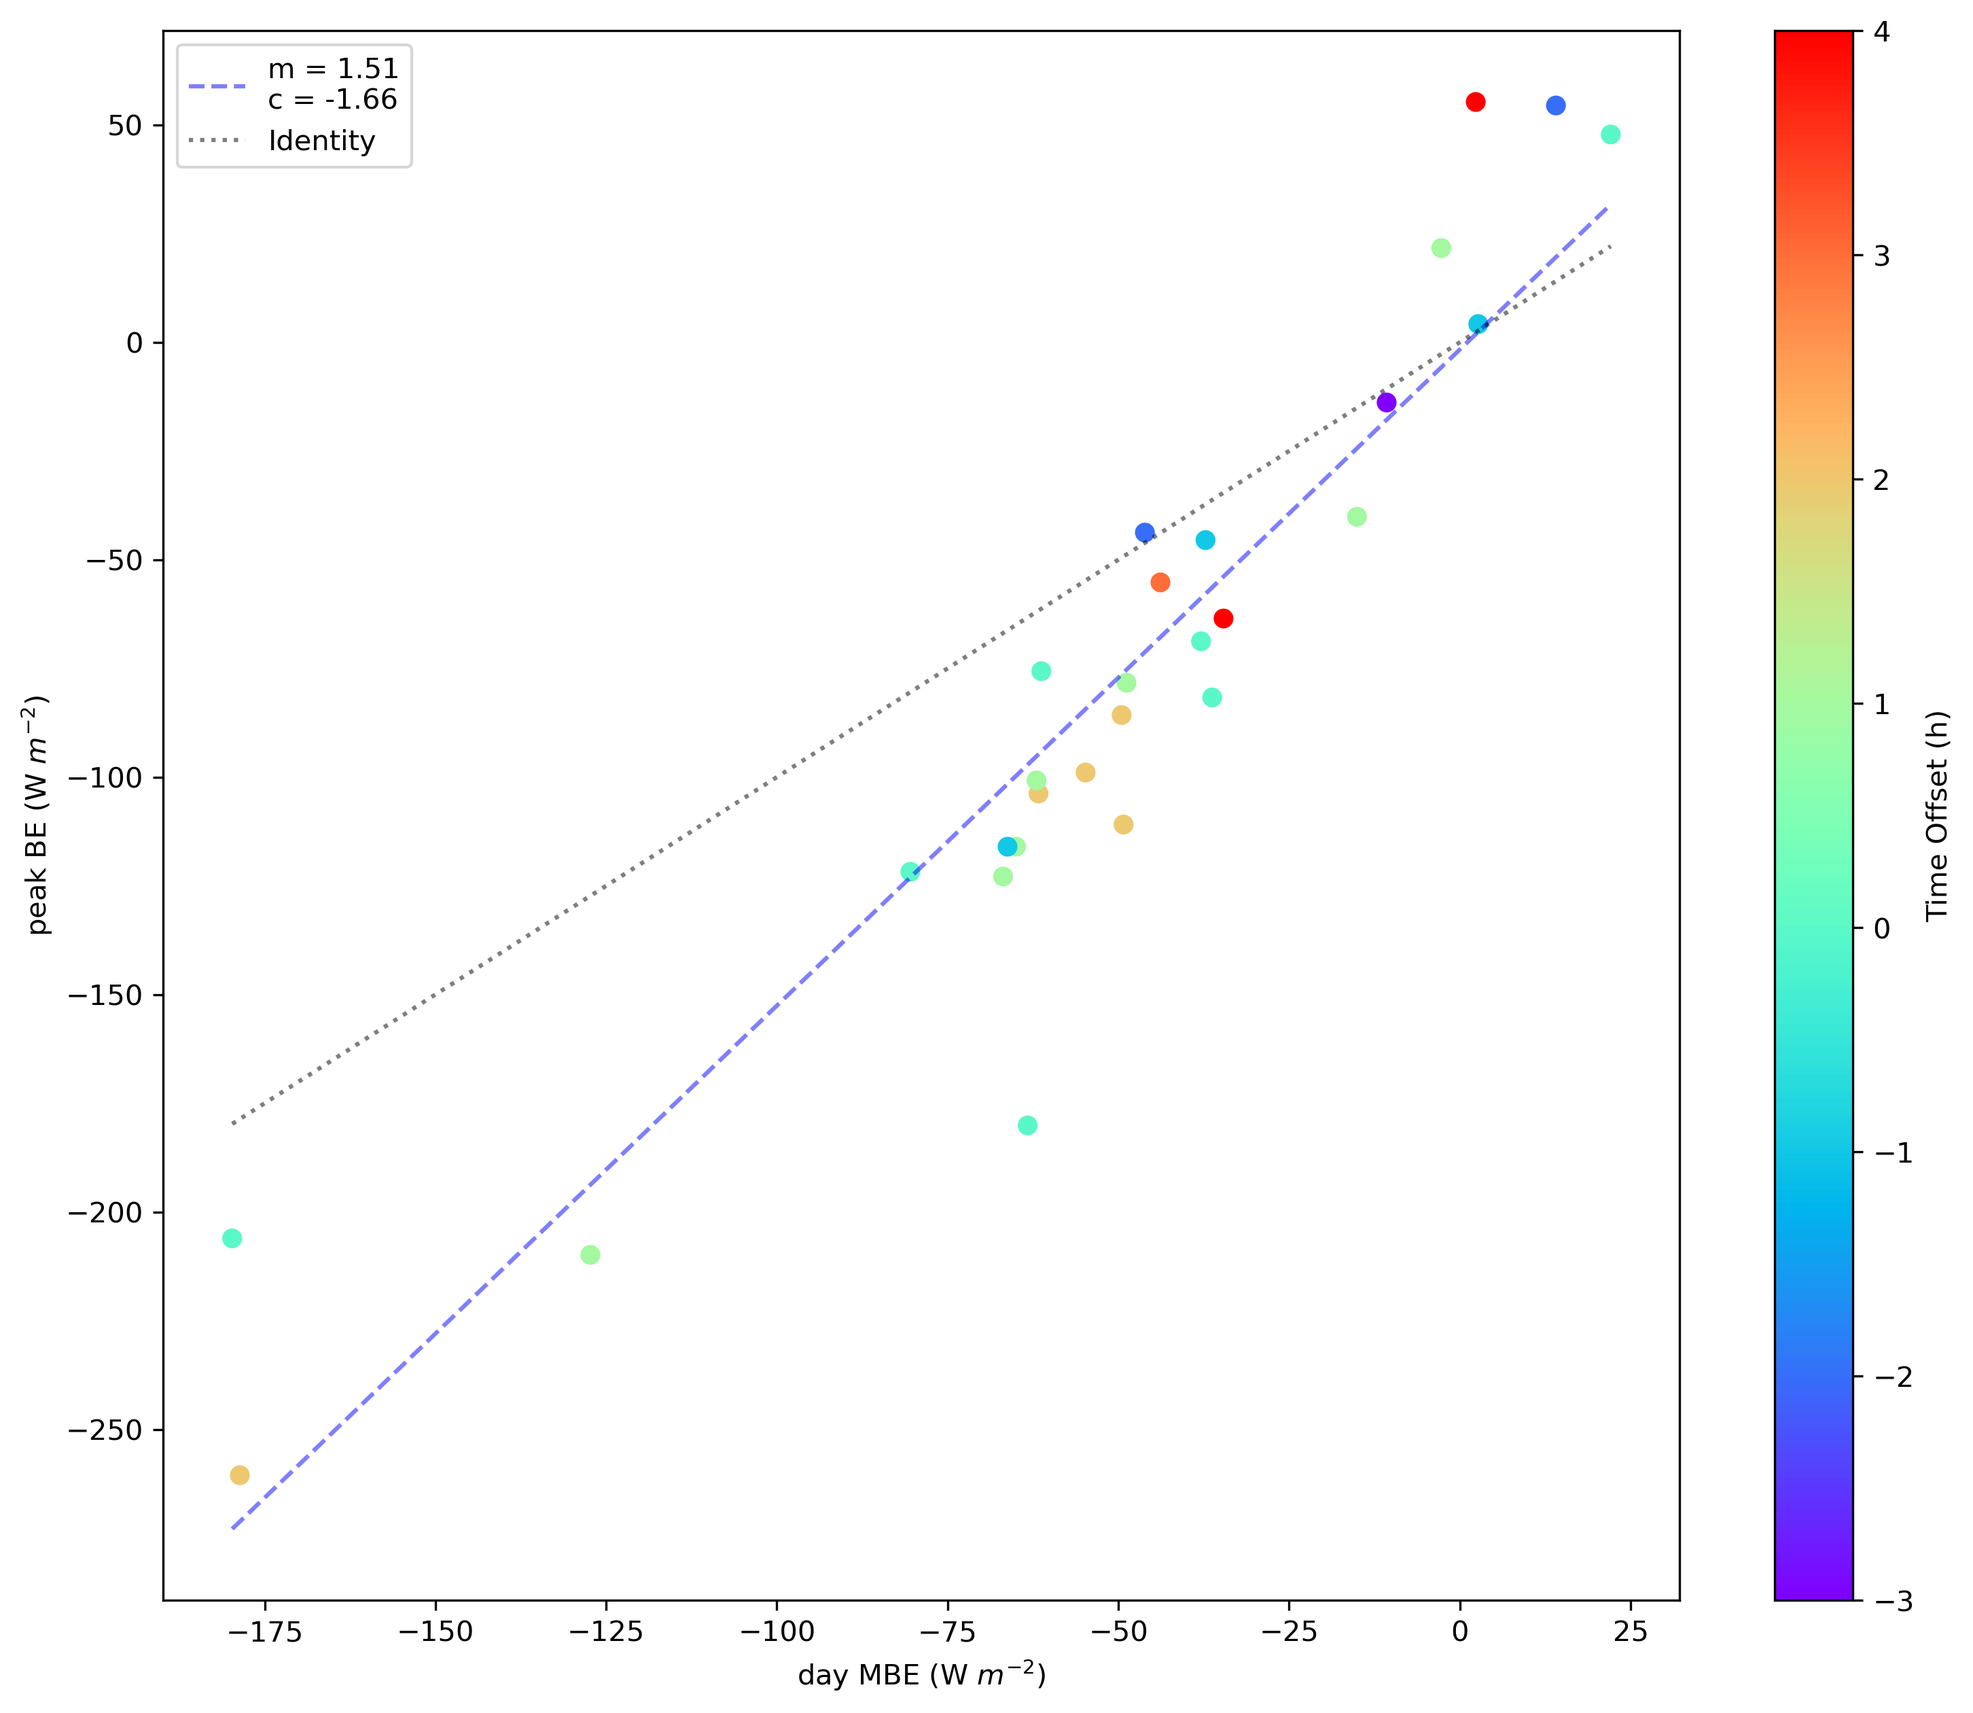
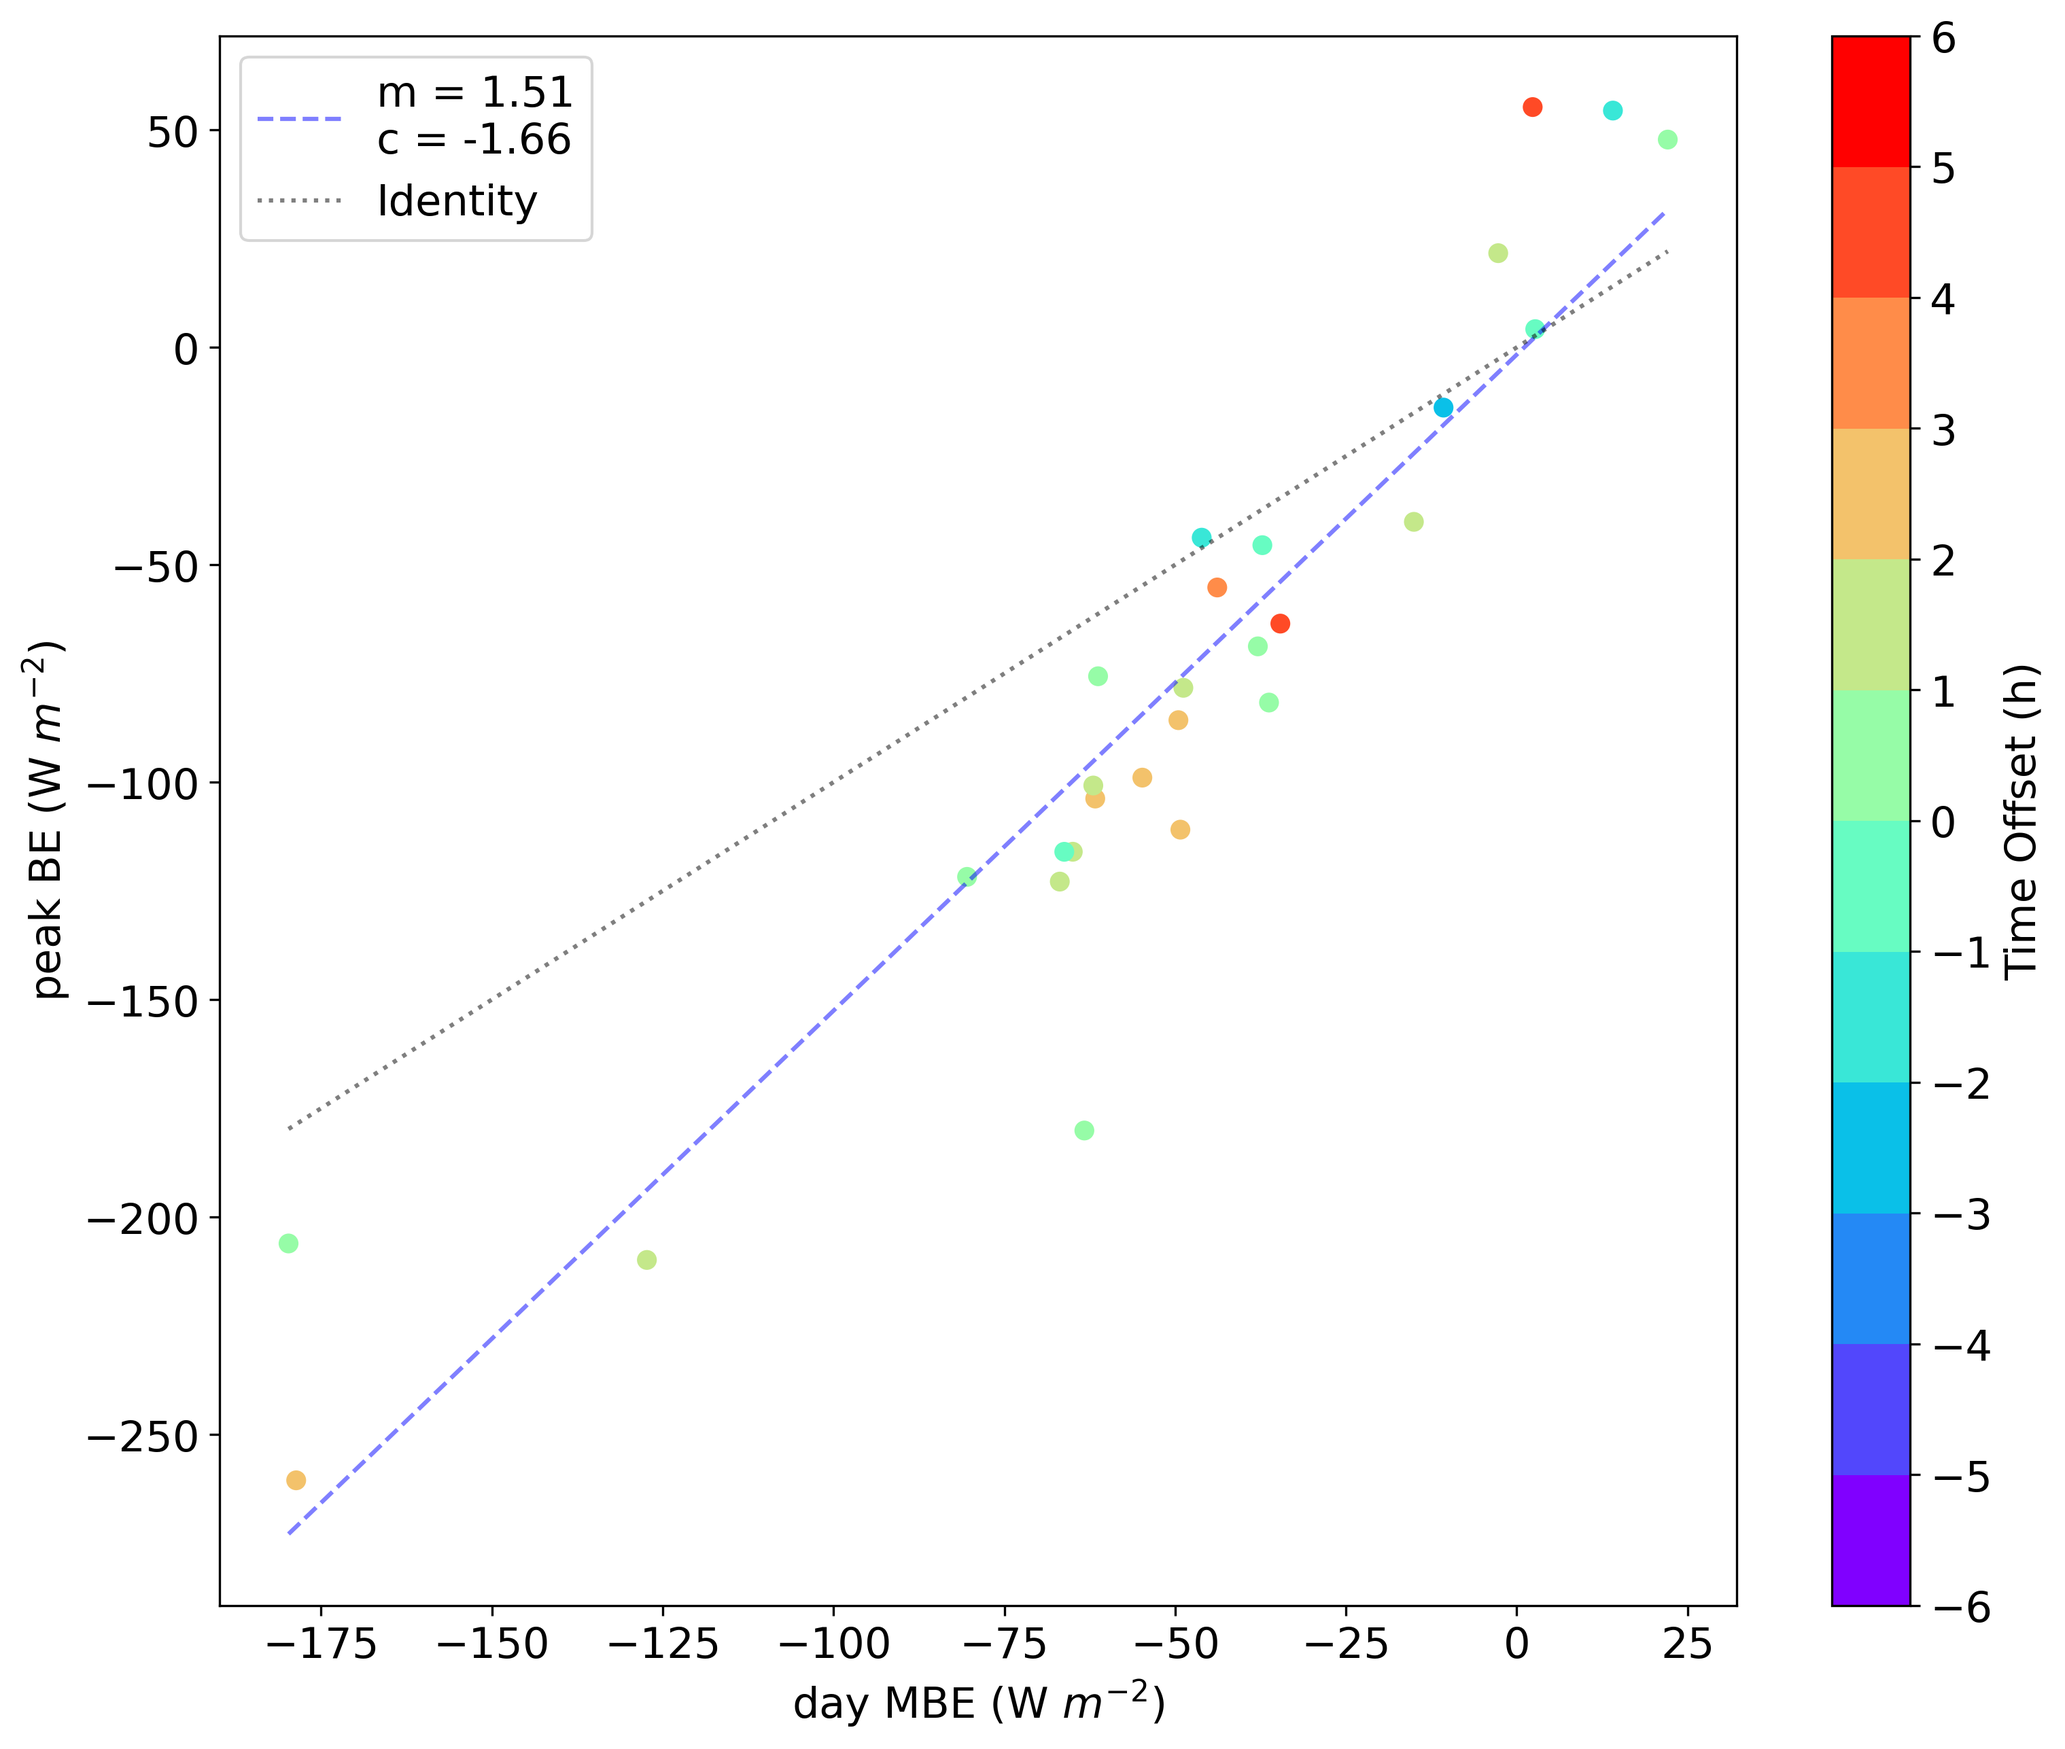
set colourbar lims

diff --git a/scint_plots/peak_flux_performance/peak_funs.py b/scint_plots/peak_flux_performance/peak_funs.py
@@ -3,6 +3,10 @@ import matplotlib.pyplot as plt
 import pandas as pd
 from matplotlib import cm
 from scipy.stats import linregress
+import matplotlib as mpl
+from matplotlib.ticker import MaxNLocator
+
+mpl.rcParams.update({'font.size': 15})
 
 from scint_flux.functions import read_calculated_fluxes
 
@@ -54,8 +58,6 @@ def peak_BE(df, scint_path):
         # take difference in value
         val_delta_qh = df_combine.loc[obs_QH_col_name].value - df_combine.loc[UKV_QH_col_name].value
         val_delta_kdn = df_combine.loc[obs_kdown_col_name].value - df_combine.loc[UKV_kdown_col_name].value
-
-
 
         # create a dataframe of differences to return
         peak_df = pd.DataFrame.from_dict({'time_delta_qh': [delta_minutes_qh], 'time_delta_kdn': [delta_minutes_kdown],
@@ -109,8 +111,18 @@ def peak_analysis_plot(peak_df, pair_id, average, save_path):
 
     cmap = cm.get_cmap('rainbow')
 
-    plt.scatter(peak_df.MBE_qh_day, peak_df.value_delta_qh, c=peak_df.time_delta_qh, cmap=cmap)
+    if average == 60:
+        smallest_dt = -6
+        largest_dt = 6
+    else:
+        raise ValueError('average lims not set yet')
+
+    bounds = np.linspace(smallest_dt, largest_dt, np.abs(largest_dt) + np.abs(smallest_dt) + 1)
+    norm = mpl.colors.BoundaryNorm(bounds, cmap.N)
+
+    plt.scatter(peak_df.MBE_qh_day, peak_df.value_delta_qh, c=peak_df.time_delta_qh, cmap=cmap, norm=norm)
     cbar = plt.colorbar()
+    cbar.set_ticks(np.arange(smallest_dt, largest_dt + 1, step=1))
 
     slope, intercept, r_value, p_value, std_err = linregress(peak_df.MBE_qh_day, peak_df.value_delta_qh)
     string_for_leg = 'm = ' + str(round(slope, 2)) + '\n' + 'c = ' + str(round(intercept, 2))

diff --git a/scint_plots/tools/preprocessed_UKV_csvs/create_local_UKV_csvs.py b/scint_plots/tools/preprocessed_UKV_csvs/create_local_UKV_csvs.py
@@ -15,7 +15,7 @@ from scint_flux import look_up
 
 # user choices
 scint_path = 12
-target_level = -1
+target_level = 1
 # target model levels.
 # 0 = closest level to obs median zf
 # 1 is one above
